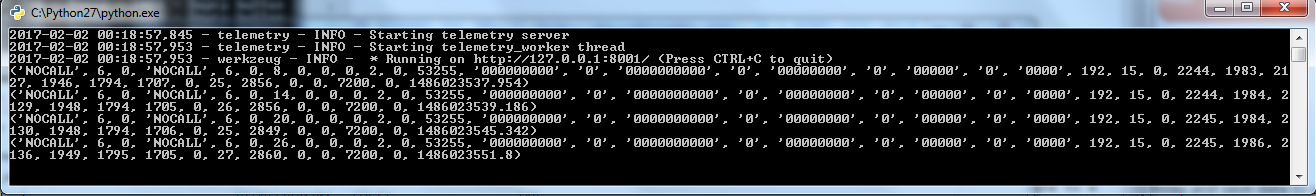
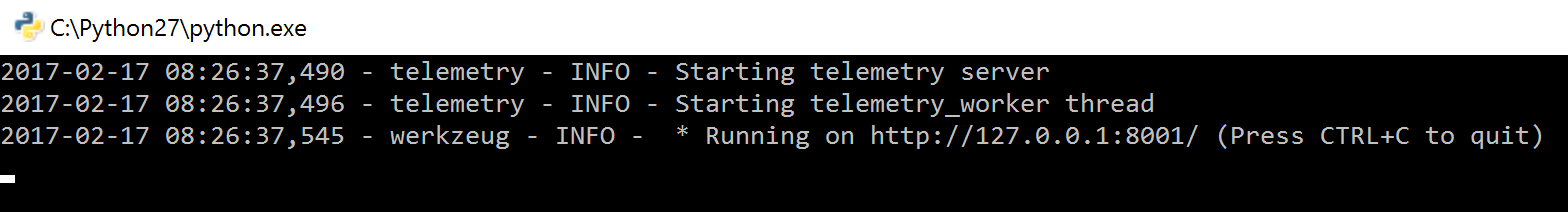
Updated readme with instructions for configuration and use (web browser) of Telemetry

diff --git a/Applications/Telemetry/readme.md b/Applications/Telemetry/readme.md
@@ -1,36 +1,40 @@
 # Telemetry
-The Telemetry application is a core application provided by FaradayRF. Its basic function is to receive telemetry packets from [Proxy](../../proxy) and save them into a SQLite database. Doing so allows us to document the data as well as search it easily in the future with SQL queries. Telemetry is built upon a Flask server providing a simple API for searching the telemetry database file. Telemetry_worker operates on its own thread to independently query Proxy for new data.
+The Telemetry application is a core application provided by FaradayRF. Its basic function is to receive telemetry packets from [Proxy](../../proxy) and save them into a SQLite database. Doing so allows us to document the data as well as search it easily in the future with SQL queries. Telemetry is built with a Flask server providing a simple API for searching the telemetry database file. The `telemetry_worker` function operates on its own thread to independently query Proxy for new data which continually updates the database in the background.
 
 Basing Telemetry on a [Flask](http://flask.pocoo.org/) server allows it to provide a RESTful interface to the network interface from which other applications such as a user interface or [APRS](../aprs) can query the saved data using simple HTTP GET commands.
 
-[DB Browser for SQLite](http://sqlitebrowser.org/) is a great tool which allows you to manipulate the database and perform simple plotting. It's simple to use the program to export a CSV for plotting in Excel as well.
-
-![Faraday Applications](images/FaradayProxyBlocks.jpg)
+This also allows us to use a standard web browser for basic debugging. We can easily see telemetry data with a simple URL query as we will show you shortly. [DB Browser for SQLite](http://sqlitebrowser.org/) is also a great tool which allows you to manipulate the database and perform simple plotting. It's simple to use the program to export a CSV for plotting in Excel as well.
 
 ## Configuration
 
 Telemetry uses [telemetry.ini](telemetry.ini) to properly connect to Proxy and save data to a SQLite database. This configuration file contains the following:
 
-* `[flask]` Flask telemetry server section
- * `host` Flask hostname or IP address
- * `port` Network port to serve data
+* `[FLASK]` Flask telemetry server section
+ * `HOST` Flask hostname or IP address
+ * `PORT` Network port to serve data
 
-* `[database]` Telemetry SQlite database section
- * `filename` Database filename "x.db"
- * `schemaname` SQLite schema file to setup tables "x.sql"
+* `[DATABASE]` Telemetry SQlite database section
+ * `FILENAME` Database filename "x.db"
+ * `SCHEMANAME` SQLite schema file to setup tables "x.sql"
 
-* `[telemetry]` Telemetry application section
- * `units` Quantity of Faraday radios connected to computer
- * `unit0call` Callsign of first radio
- * `unit0id` Node ID of first radio
+* `[TELEMETRY]` Telemetry application section
+ * `UNITS` Quantity of Faraday radios connected to computer
+ * `UNIT0CALL` Callsign of first radio
+ * `UNIT0ID` Node ID of first radio
 
-Configuring Telemetry consists of changing three parameters for basic use. The three configs to change are `units`, `unit0call`, and `unit0id`. These will let Telemetry properly query Proxy to obtain the correct telemetry data. Simply replace these values with appropriate data similar to how one configured [proxy.ini](../proxy/proxy.ini).
+Configuring Telemetry consists of changing three parameters for basic use. The three configs to change are `UNITS`, `UNIT0CALL`, and `UNIT0ID`. These will let Telemetry properly query Proxy to obtain the correct telemetry data. Simply replace these values with appropriate data similar to how one configured [proxy.ini](../proxy/proxy.ini).
 
 ## Running Telemetry
 
 > Telemetry expects [Proxy](../proxy) to be running on the same computer. Please ensure it is running in a window before attempting to start this application.
 
-When this application starts-up it will create a database in the telemetry folder using the `filename` if it doesn't already exist. Once created, the program queries Proxy once per second for telemetry in its queues. Every Faraday physically connected to the computer will be queried. When data is retrieved from Proxy it is parsed and saved into a row of the `TELEMETRY` table.
+When this application starts-up it will create a database in the telemetry folder using the `FILENAME` if it doesn't already exist. If already present, the database will be opened and appended to. Once created, the program queries Proxy once per second for telemetry in its queues. Every Faraday physically connected to the computer will be queried. When data is retrieved from Proxy it is parsed and saved into a row of the `TELEMETRY` table. Any telemetry packet received by a Faraday radio over RF will also be saved.
+
+![Telemetry application](images/telemetryoutput.png)
+
+Please note that Telemetry queries proxy once per second so you may see an INFO log on Proxy output indicating an `Empty buffer for port 5`. This is completly fine most of the time. The information simply means that there was no new telemetry (port 5) that Proxy could serve when requested by Telemetry.
+
+![Telemetry application](images/telemetryproxyoutput.png)
 
 ### Windows
 
@@ -47,8 +51,6 @@ There are two ways to start Telemetry in Windows. First by command line and seco
 
 2. Confirm python window opens and remains open
 
-![Telemetry application](images/telemetryoutput.png)
-
 ### Linux (Debian-based)
 ### OSX
 
@@ -56,8 +58,61 @@ There are two ways to start Telemetry in Windows. First by command line and seco
 
 The easiest way to explore the database with Faraday data in it is to use [DB Browser for SQLite](http://sqlitebrowser.org/). DB Browser works for Windows, Mac, and Linux.
 
-### Linux (Debian-based)
+The quickest way is to use your web browser!
+
+### Web Browser
+
+Using the RESTful Flask server enables development with web tools. We can query Telemetry for data from any web browser on your local computer. You also can use any of the development tools included with your browser to develop applications.
+
+NOTE: Please see the Telemetry API section below for more details on what can be queried!
+        
+#### Example Web Queries
+
+Telemetry expects several input URL parameters to perform a query on the SQLite database. If your query returns no results you will receive an HTTP 204 response which may result in your browser simply showing you the current page which could be stale data so please be aware. We also attempt to provide useful error feedback in JSON response.
+
+##### Return Last Five Minutes
+At a minimum to perform a Telemetry query you can simply return the last five minutes of telemetry data in the entire database
+
+Query: `http://localhost:8001/`
+
+This results in a JSON response which can be viewed in the browser.
+
+![Telemetry Full Browser Response](images/WebBrowser_FullOutput.exe.png)
+
+##### Return Specific Station Data From Last Five Minutes
+This response requires a specific `callsign` and `nodeid` to be search for as a URL parameter. This will respond with telemetry specific to ONLY the requested radio, local or remote, heard in the last five minutes.
+
+Query: `http://localhost:8001/?callsign=kb1lqc&nodeid=1`
+
+![Telemetry Specific Station Browser Response](images/BrowserTelemetry_SpecificStation.png)
+
+##### Return Limited Number of Telemetry Items
+The `limit` URL parameter can be used with any of the URL search queries to limit the response to a specific number of telemetry items. If i wanted to limit the response from a query for KB1LQC-1 telemetry items to just one item I would perform the following query.
+
+Query: `http://localhost:8001/?callsign=kb1lqc&nodeid=1&limit=1`
+
+![Telemetry Specific Station Browser Response Limit](images/BrowserTelemetry_Limit.png)
+
+### SB Browser for SQLite
+#### Windows
+
+#### Linux (Debian-based)
 The DB Browser website has clear and concise instructions to install the browser. However, one tip will be to install `apt-get-repository`. It is located in the `software-properties-common` package.
 
  * `sudo apt-get install software-properties-common`
 
+#### Mac OSX
+
+## Telemetry API
+
+The following URL parameters are possible when interfacing the Telemetry server via a HTTP GET query, uppercase is not required for web URL input:
+
+ * `CALLSIGN`: Station callsign
+ * `NODEID`: Station node ID
+ * `DIRECTION`: Boolean 0 or 1 indicating return of only local or RF station data respectively
+ * `STARTTIME`: Start time (ISO 8601 "%Y-%m-%dT%H:%M:%S") of data to be obtained from SQLite database
+ * `ENDTIME`: End time (ISO 8601 "%Y-%m-%dT%H:%M:%S") of data to be obtained from SQLite database
+ * `TIMESPAN`: Timespan ending with current time of data to be obtained from SQLite database
+ * `LIMIT`: Number of telemetry items to be returned in the query. Number of JSON items.
+        
+The API will be better documented shortly. Barebones at the moment!
